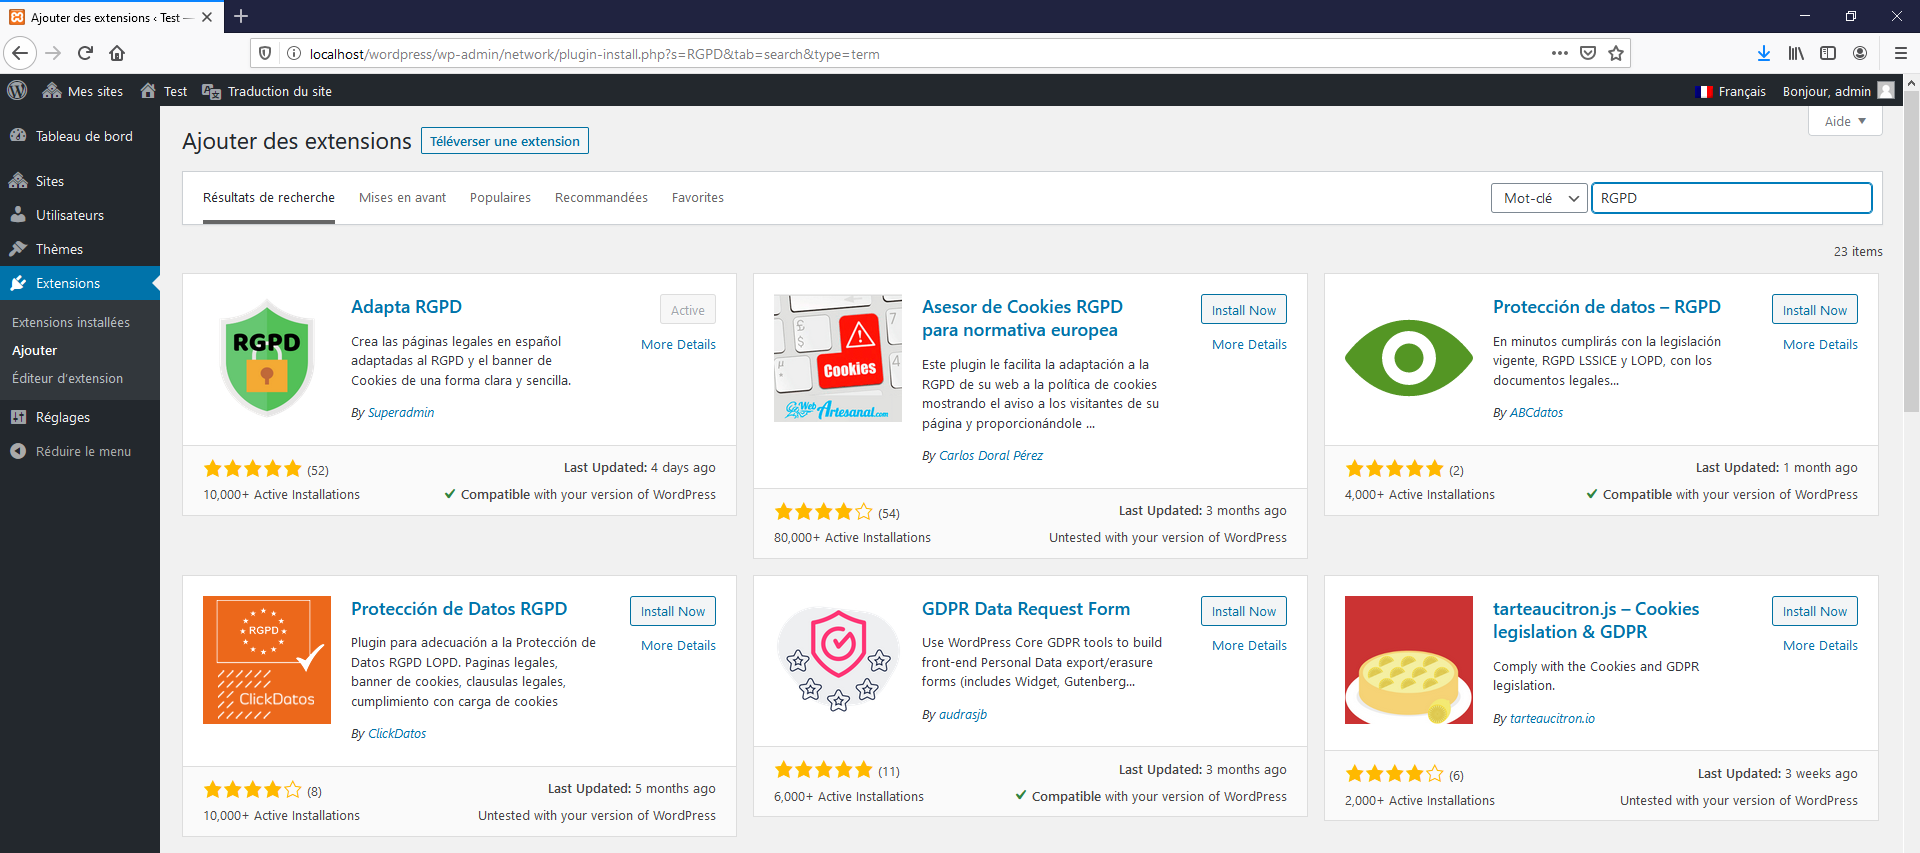
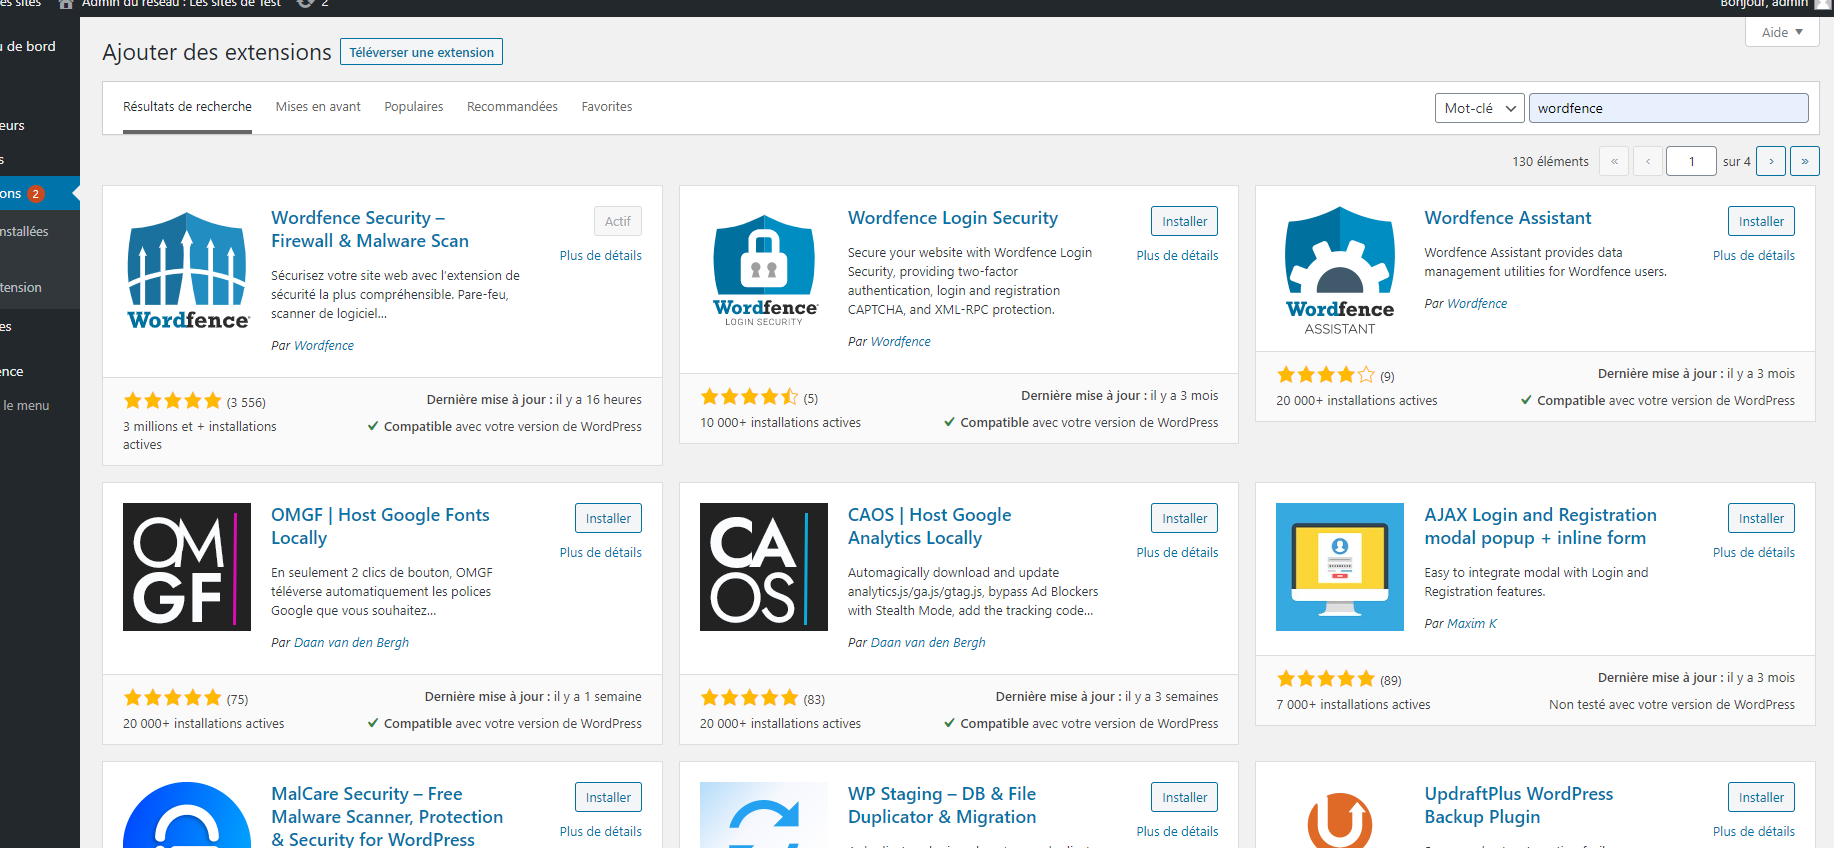
ajouter fichier README

diff --git a/README.md b/README.md
@@ -1,0 +1,45 @@
+# E-commerce_Wordpress
+2eme Brief en Wordpress
+
+
+	***********************
+	* PARTIE INSTALLATION *
+	***********************
+- L'ajoute de la methode Multi-Site dans WordPress :
+  
+  1- on ajoute la ligne " define('WP_ALLOW_MULTISITE', true); " dans le fichier wp-config.php 
+     avant la première des commandes de type « require » ou « include »
+
+  2- à partir l'Outils dans le WordPress on trouve une ligne de création du réseau puis on ajoute un nouveau Site.
+
+  3- Activation du réseau de Site : aprés l'installation on prendre des instructions spécifiques et on à appliquer 
+     dans le fichier wp-config.php et dans le fichier .htaccess .
+
+	***********************
+	* PARTIE INSTALLATION *
+	***********************
+
+1- Installation de theme envo ecommerce et importer avec l'integration de plugin WooCommerce.
+
+2- Ajouter le plugin Yoast SEO puis l'activation.
+
+3- Ajouter le plugin de multilangue Weglot puis Configuration.
+
+4- Ajouter le plugin de RGPD : Wordfence Security – Firewall & Malware Scan.
+
+	********************************
+	* PARTIE MODIFICATION DU THEME *
+	********************************
+
+1- Ajouter deux Catégories et leurs produits puis modifier quelque chose dans le page Home.
+
+2- Creation le code promo(Coupons).
+
+
+	************************
+	* PARTIE Creation USER *
+	************************
+
+1- Partir dans les utilisateurs sur WordPress puis partir à Ajouter.
+
+2- j'ajoute deux utilisateurs avec son role : 1er user je donner le role editeur et le 2eme user je donnée le role Auteur.
